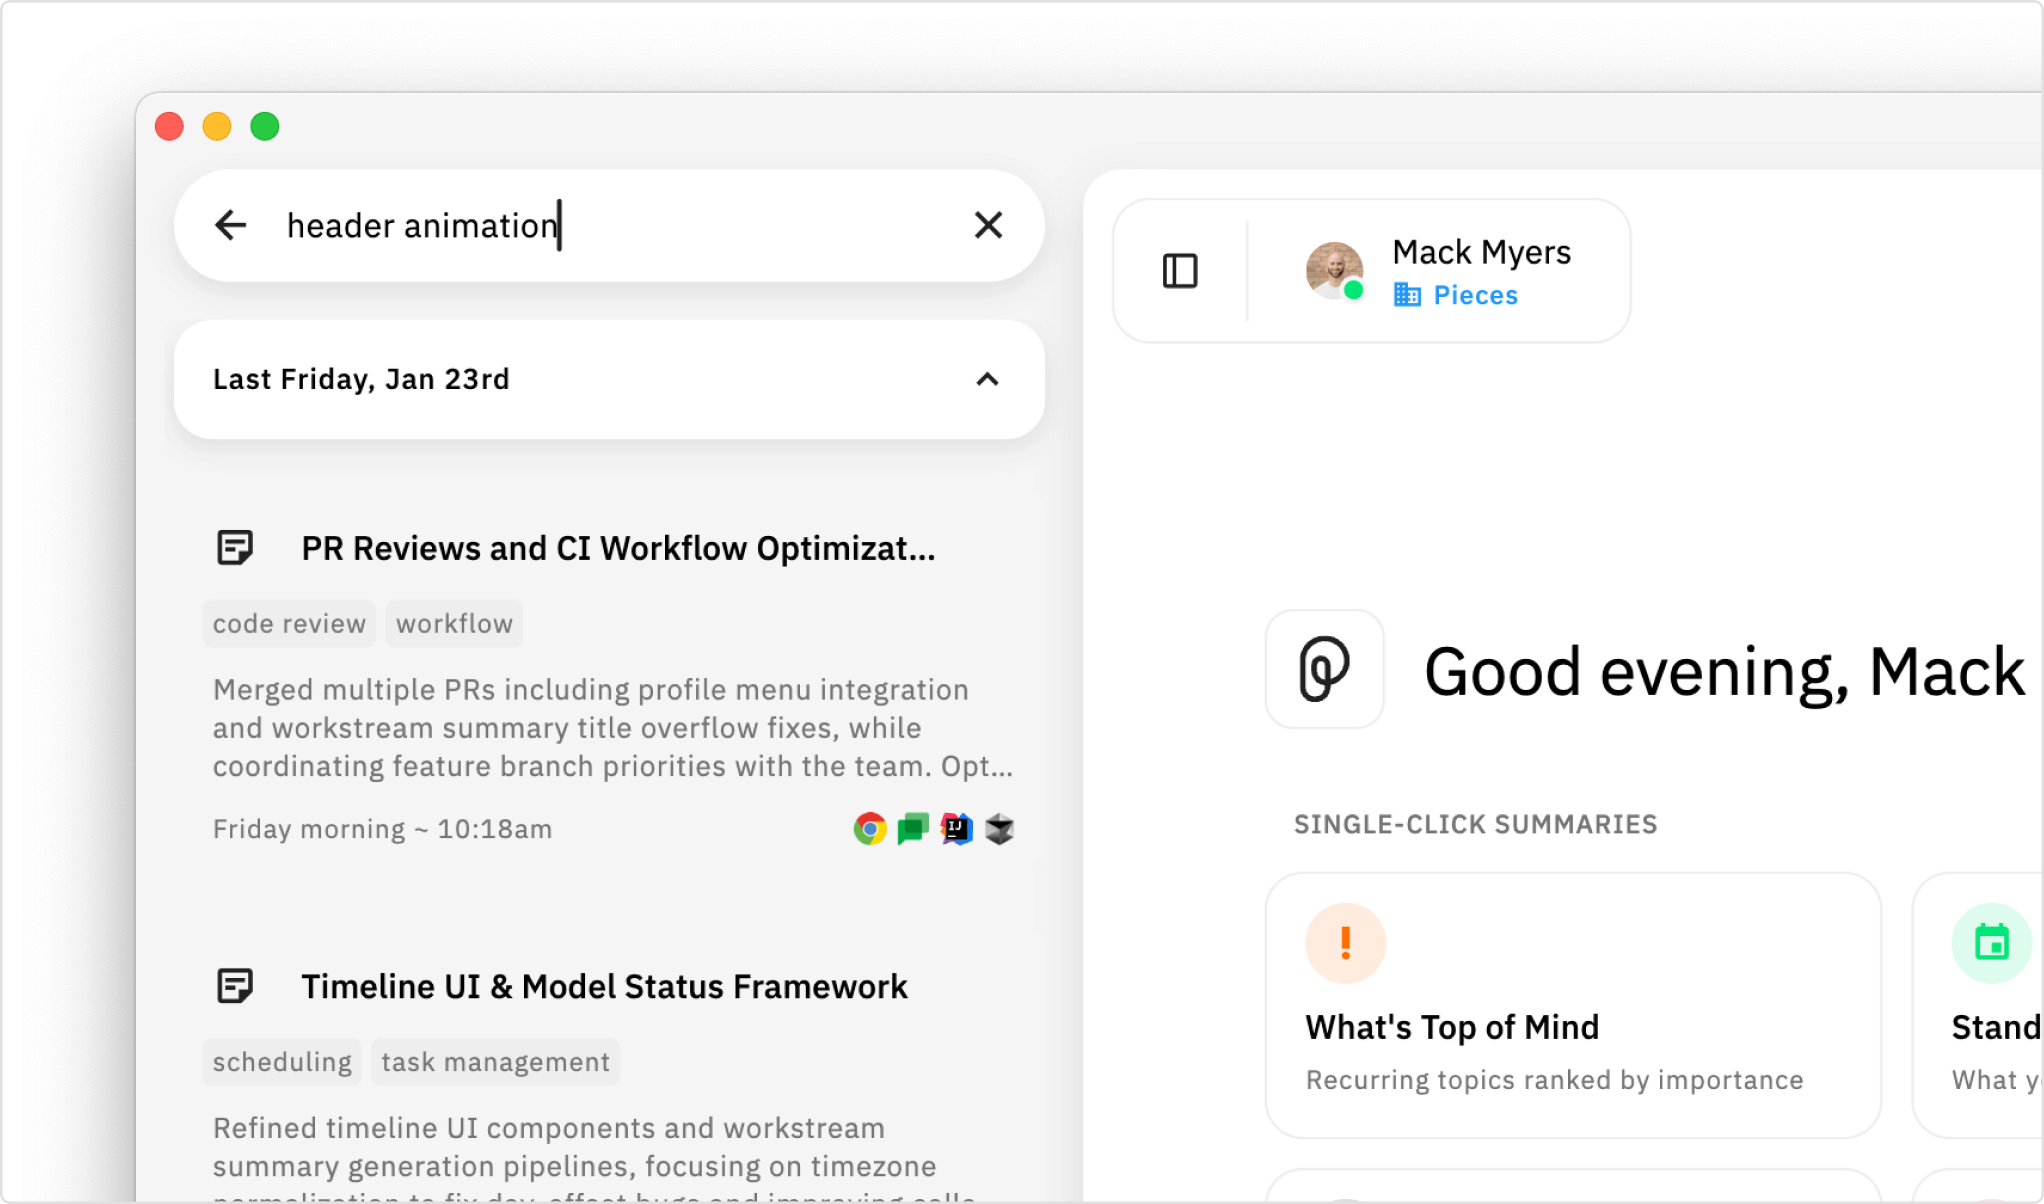
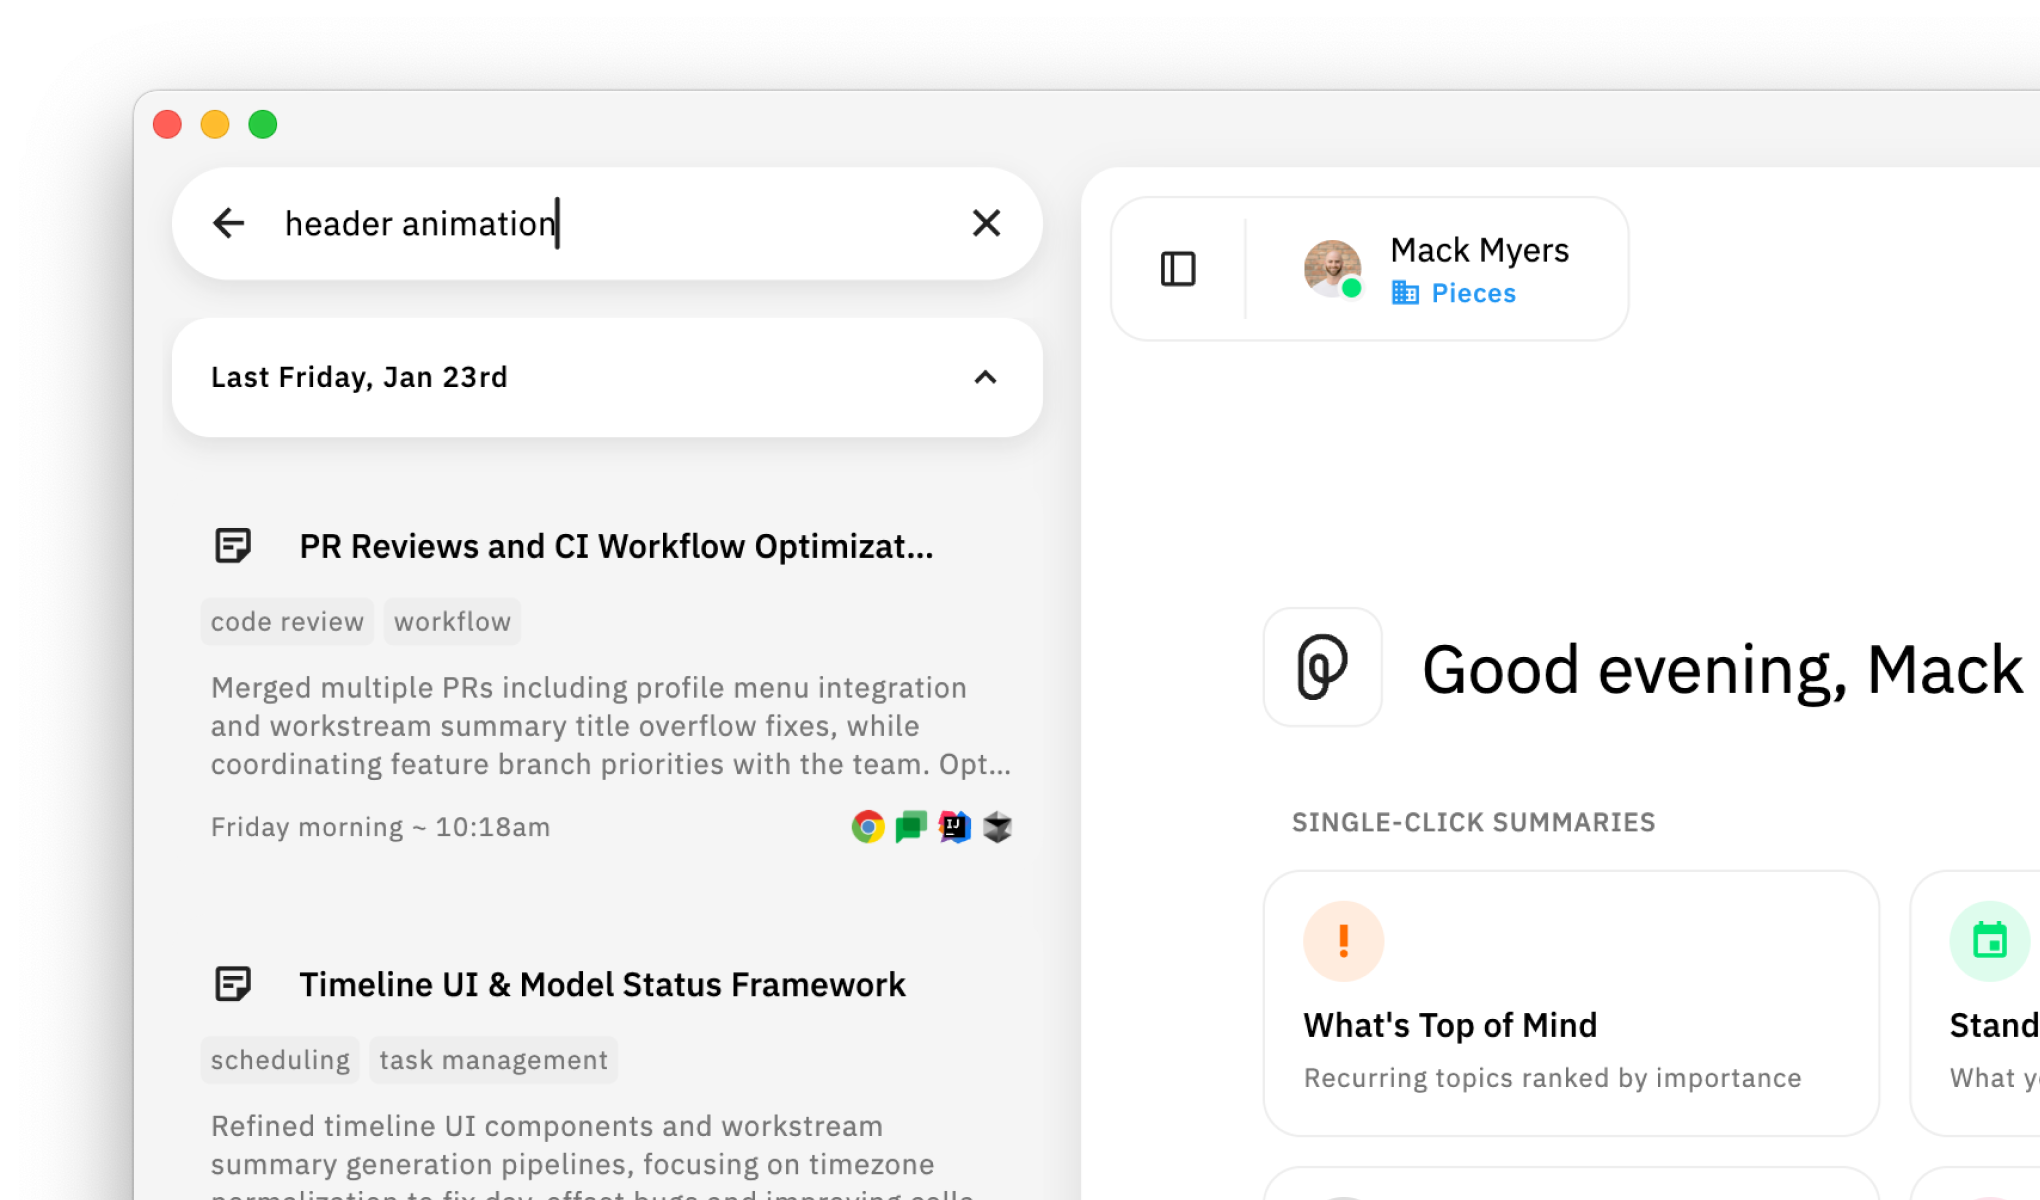
Fresh export of 5.0.1 light mode images (pre-border styling)
Checkpoint before applying border styling for easy reset.

diff --git a/releases/Whats New in Pieces 5.0.1.md b/releases/Whats New in Pieces 5.0.1.md
@@ -23,7 +23,7 @@ Every professional who bills by the hour knows the end-of-day scramble. Studies 
 
 Think of it as your memory assistant—not a replacement for your judgment, but a way to stop starting from a blank page. The output gives you something to react to, refine, and submit with confidence.
 
-![Time Breakdown reconstructs your day from captured context](https://storage.googleapis.com/pieces_static_resources/pro_tips/5_0_1_time_breakdown_summary_light.png)
+![Time Breakdown reconstructs your day from captured context](https://storage.googleapis.com/pieces_static_resources/pro_tips/5_0_1_time_breakdown_summary_light_v2.png)
 
 *A Time Breakdown output: time blocks across projects with activity descriptions to help you recall the details.*
 
@@ -65,7 +65,7 @@ Your Timeline is now searchable and filterable—so you can find exactly what yo
 
 Type a project name, topic, or phrase into the new search bar and instantly surface relevant summaries, conversations, and context. Results are grouped by date with preview snippets, so you can spot what you need at a glance.
 
-![Search your Timeline by keyword](https://storage.googleapis.com/pieces_static_resources/pro_tips/5_0_1_timeline_search_light.png)
+![Search your Timeline by keyword](https://storage.googleapis.com/pieces_static_resources/pro_tips/5_0_1_timeline_search_light_v2.png)
 
 *Searching for "header animation" surfaces relevant summaries grouped by date.*
 
@@ -80,7 +80,7 @@ Remember it happened "sometime Friday afternoon"? Scope your Timeline to exactly
 
 Combine time filters with **source filters** (which apps contributed context) and **summary type filters** (Day Recap, Standup, Time Breakdown) to slice through your history.
 
-![Filter your Timeline by time, source, or type](https://storage.googleapis.com/pieces_static_resources/pro_tips/5_0_1_timeline_time_based_filters_light.png)
+![Filter your Timeline by time, source, or type](https://storage.googleapis.com/pieces_static_resources/pro_tips/5_0_1_timeline_time_based_filters_light_v2.png)
 
 *Time Ranges let you scope to exactly when something happened—no more endless scrolling.*
 
@@ -96,7 +96,7 @@ Different tasks need different models. Sometimes you want Claude's nuanced reaso
 
 A clean dropdown shows your enabled models with inline descriptions. Use the quick search at the top to find the model you need instantly. See what each model is good for, pick the one you need, and keep working.
 
-![The redesigned model picker](https://storage.googleapis.com/pieces_static_resources/pro_tips/5_0_1_enhanced_model_management_light.png)
+![The redesigned model picker](https://storage.googleapis.com/pieces_static_resources/pro_tips/5_0_1_enhanced_model_management_light_v2.png)
 
 *Switch models mid-conversation with a dropdown that tells you what each one does.*
 
@@ -104,7 +104,7 @@ A clean dropdown shows your enabled models with inline descriptions. Use the qui
 
 Full model management has moved to a dedicated section in Settings. You can get there directly from the model dropdown—just click **"Manage Models"** at the bottom of the list. Enable or disable models by provider—OpenAI, Anthropic, Google, AWS Bedrock, and more. Search across 85+ available models. Organize your lineup without cluttering the main interface.
 
-![Model management in Settings](https://storage.googleapis.com/pieces_static_resources/pro_tips/5_0_1_refreshed_settings_ux_light.png)
+![Model management in Settings](https://storage.googleapis.com/pieces_static_resources/pro_tips/5_0_1_refreshed_settings_ux_light_v2.png)
 
 *85+ models organized by provider. Enable what you use, disable what you don't.*
 
@@ -125,7 +125,7 @@ For organizations using AWS Bedrock, we now support **Inference Profiles** direc
 - **Full model coverage** — Claude Haiku 3.5, Claude Haiku 4.5, Claude Opus 4, and more
 - **Manage from the Pieces Portal** — configure profiles under Settings → API Keys
 
-![AWS Bedrock Inference Profiles in the Pieces Portal](https://storage.googleapis.com/pieces_static_resources/pro_tips/5_0_1_aws_bedrock_inference_profiles_support.png)
+![AWS Bedrock Inference Profiles in the Pieces Portal](https://storage.googleapis.com/pieces_static_resources/pro_tips/5_0_1_aws_bedrock_inference_profiles_support_v2.png)
 
 *Manage AWS Bedrock Inference Profiles per team—full control over who can access which models.*
 
@@ -141,7 +141,7 @@ You generated a Day Recap. It mentions a debugging session you'd forgotten about
 
 The new **"Start Related Chat"** button—in the bottom right of any open summary—turns it into a conversation.
 
-![Start a chat from any summary](https://storage.googleapis.com/pieces_static_resources/pro_tips/5_0_1_improved_summary_to_chat_experience_light.png)
+![Start a chat from any summary](https://storage.googleapis.com/pieces_static_resources/pro_tips/5_0_1_improved_summary_to_chat_experience_light_v2.png)
 
 *One tap loads the summary and all its context into a new chat—ready for follow-up questions.*
 
@@ -162,7 +162,7 @@ Not sure what a summary does? When to use Morning Brief vs. Day Recap? Whether T
 
 Every **Single-Click Summary** now has a **"See it in action"** link. Hover over it to watch a quick preview video—so you can see exactly what you'll get before you generate.
 
-![Preview videos for every summary type](https://storage.googleapis.com/pieces_static_resources/pro_tips/5_0_1_single_click_summary_preview_videos_light.png)
+![Preview videos for every summary type](https://storage.googleapis.com/pieces_static_resources/pro_tips/5_0_1_single_click_summary_preview_videos_light_v2.png)
 
 *Hover over "See it in action" to watch a quick preview before you generate.*
 
